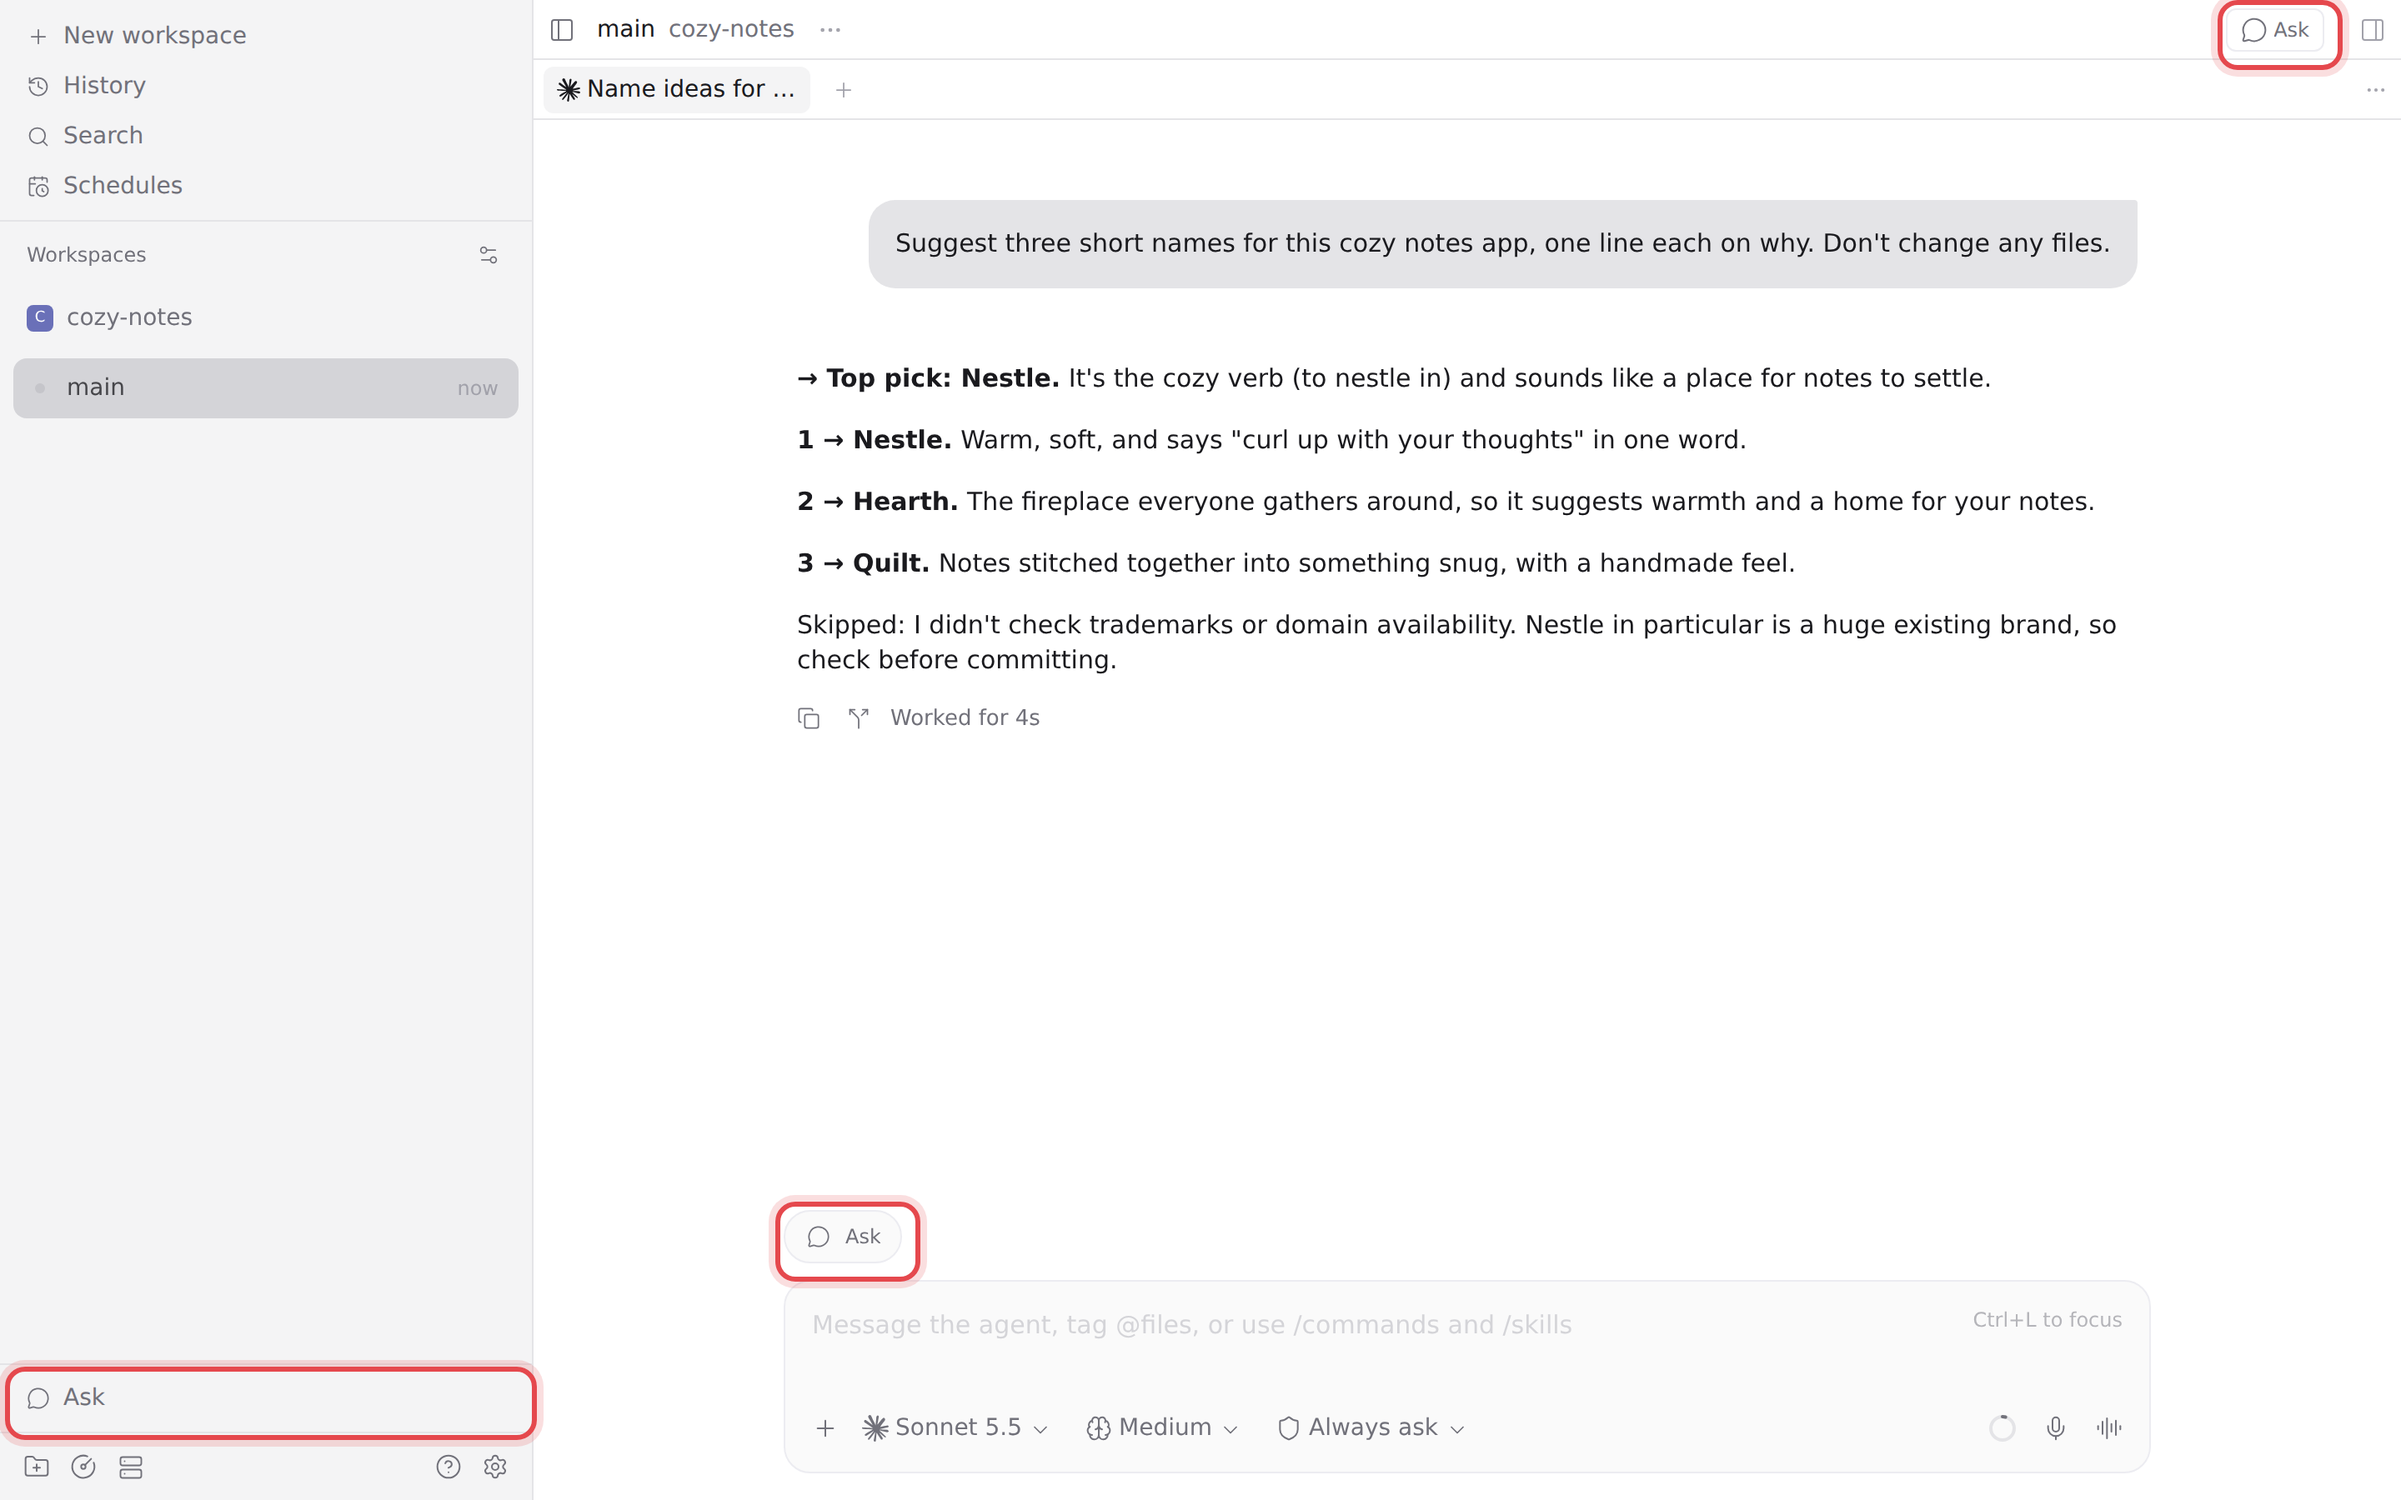
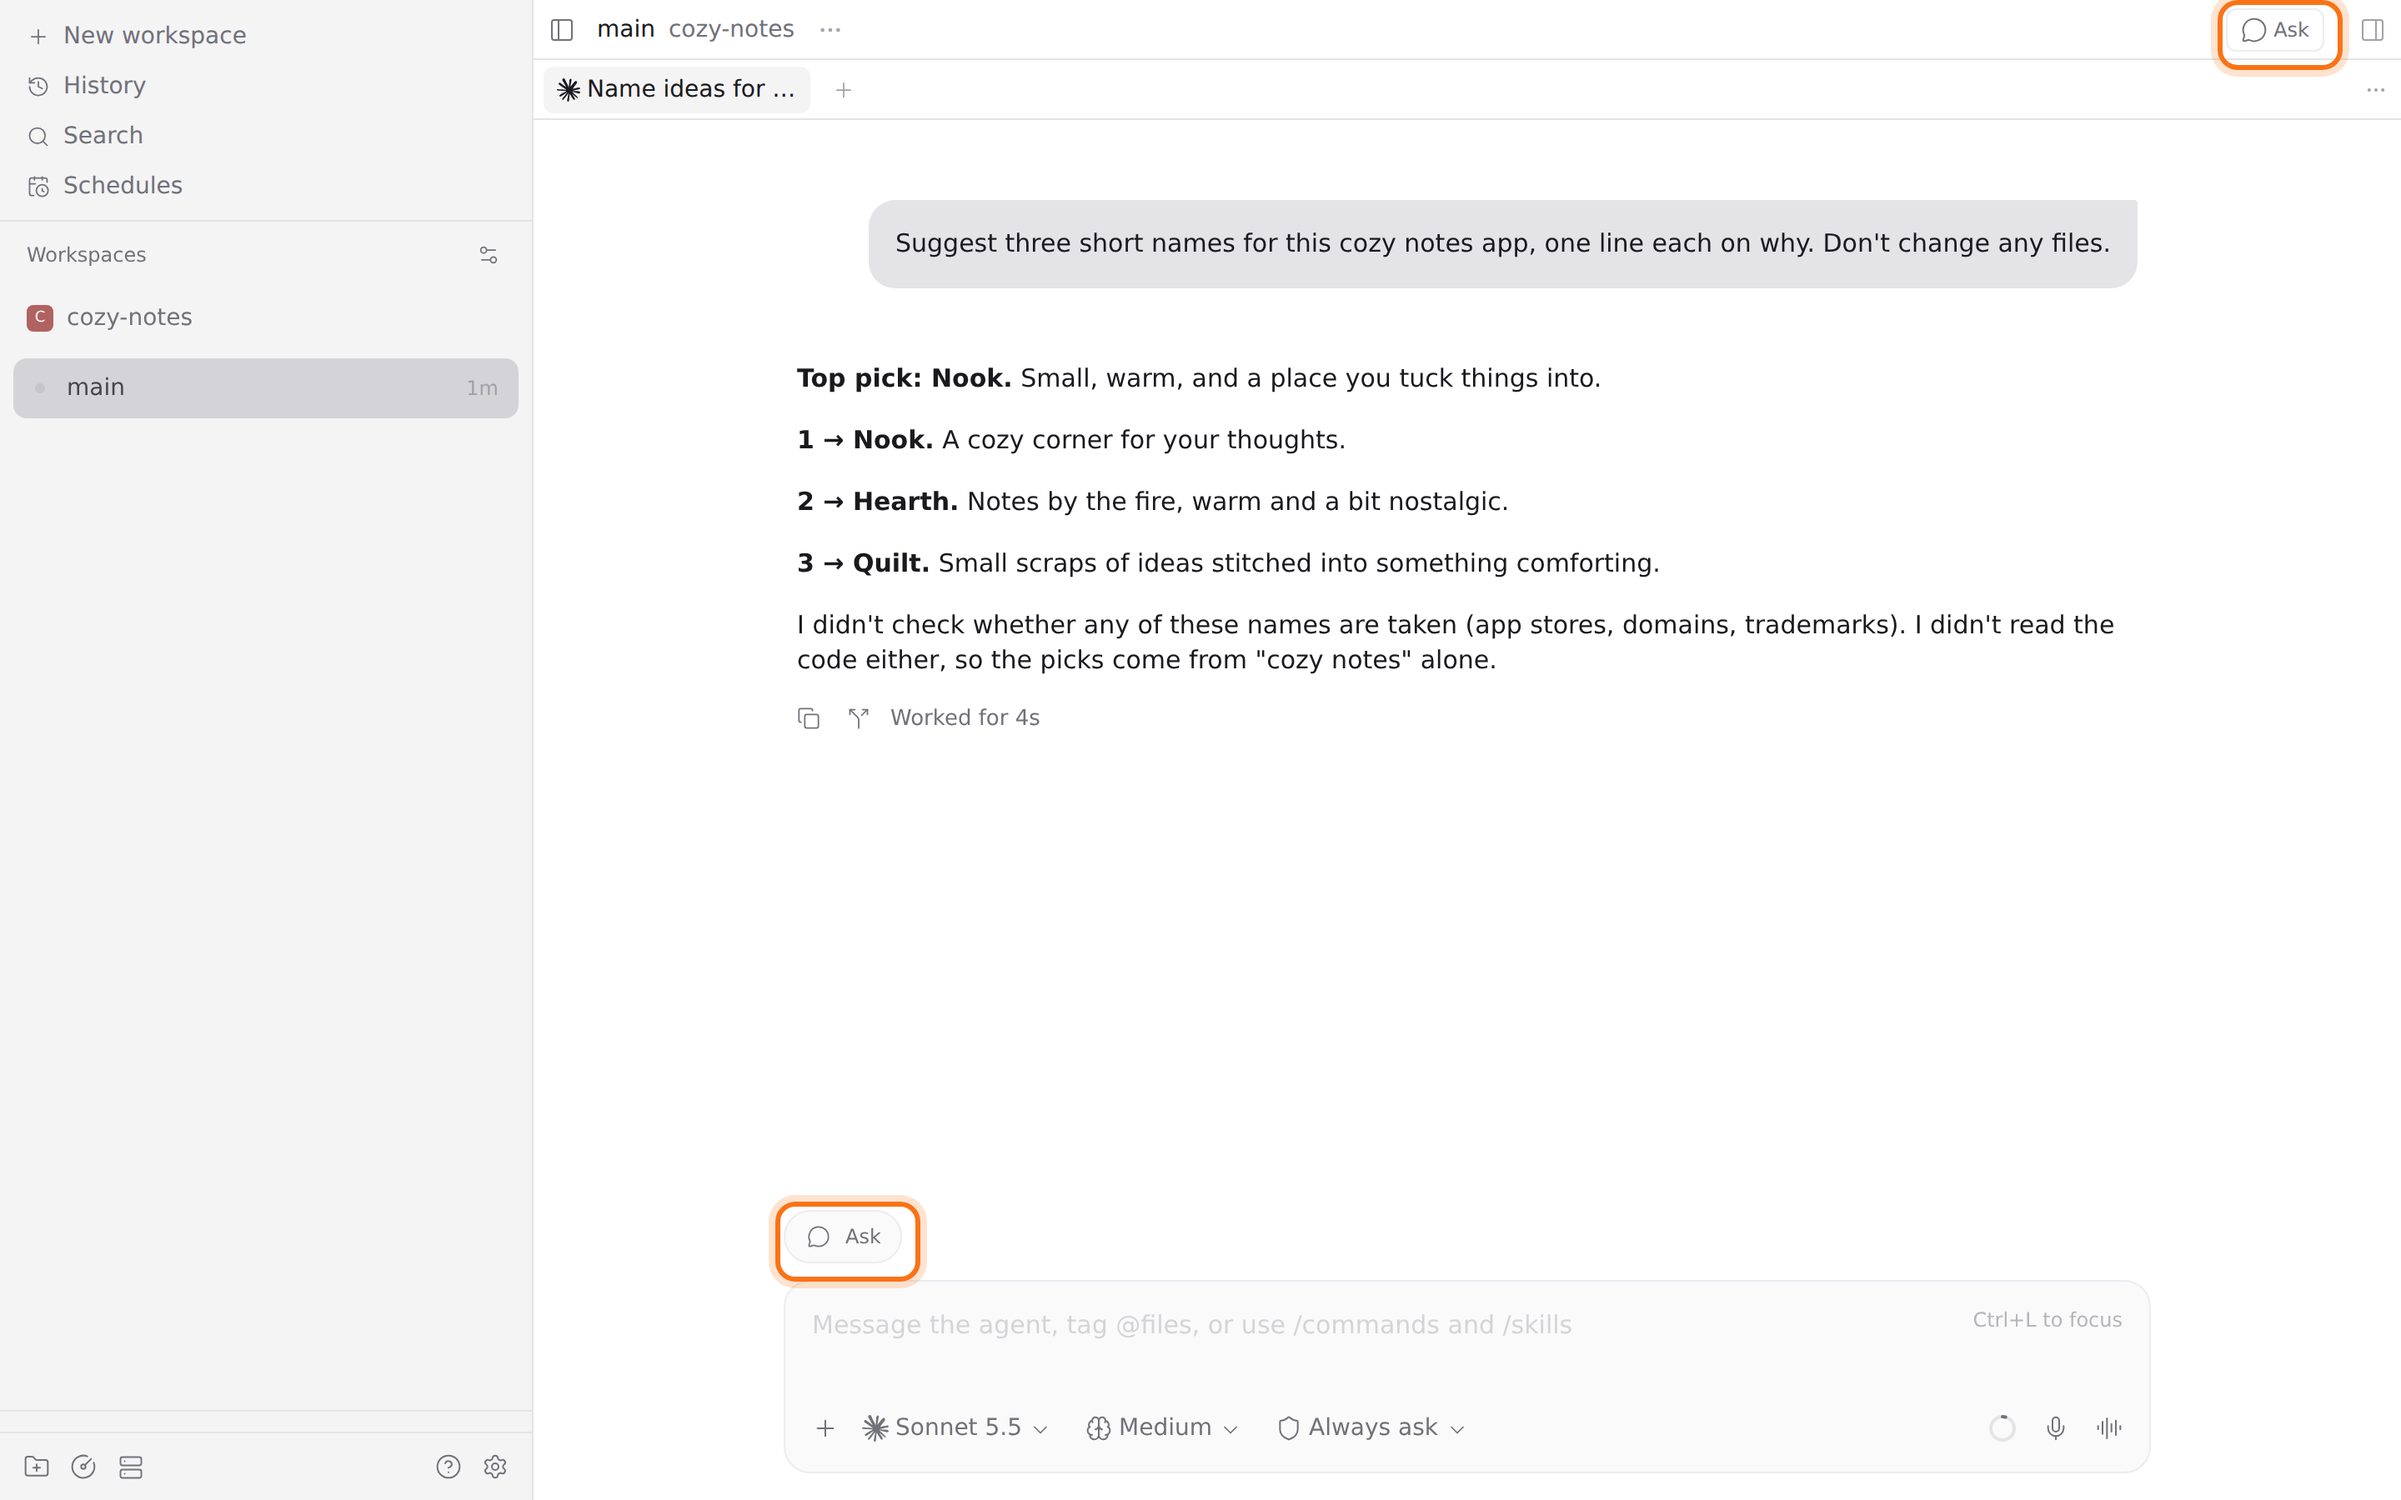
Screenshots: tool call in the window, orange outlines, no sidebar row
Retaken against a throwaway demo daemon after the sidebar Ask row was
removed. Outlines are orange; the selection shot outlines its button.

diff --git a/README.md b/README.md
@@ -4,11 +4,11 @@ A floating window for quick questions, answered by Claude on the daemon.
 
 Open it from the "Ask" button in the workspace header (also in a new-agent draft) or in an agent's composer. Follow-ups stay in the same thread. Tool calls show up as they happen, like in the main chat; sending while Claude works steers the answer in progress. The Ask button spins while answering and shows a dot when an answer is ready. On phones it opens full screen; on desktop it can be moved and resized, and you can paste images or attach files. Select text anywhere in Paseo for a small Ask button that quotes it; click an attached image to view it full size.
 
-![Ask open over the main window](assets/screenshot-overlay.png)
+![Ask open over the main window, with a tool call](assets/screenshot-overlay.png)
 
-![The Ask buttons, outlined: workspace header, agent composer, sidebar footer](assets/screenshot-buttons.png)
+![The Ask buttons, outlined: workspace header and agent composer](assets/screenshot-buttons.png)
 
-![Ask button next to selected text](assets/screenshot-selection.png)
+![The Ask button at the end of a text selection, outlined](assets/screenshot-selection.png)
 
 **Runs with full access.** Each question runs `claude -p --permission-mode bypassPermissions` in your home directory on the daemon, with your Claude Code settings, skills and MCP servers: it can read and change files and run commands without asking. Questions, the thread and anything Claude reads go to Anthropic through your Claude Code login.
 
